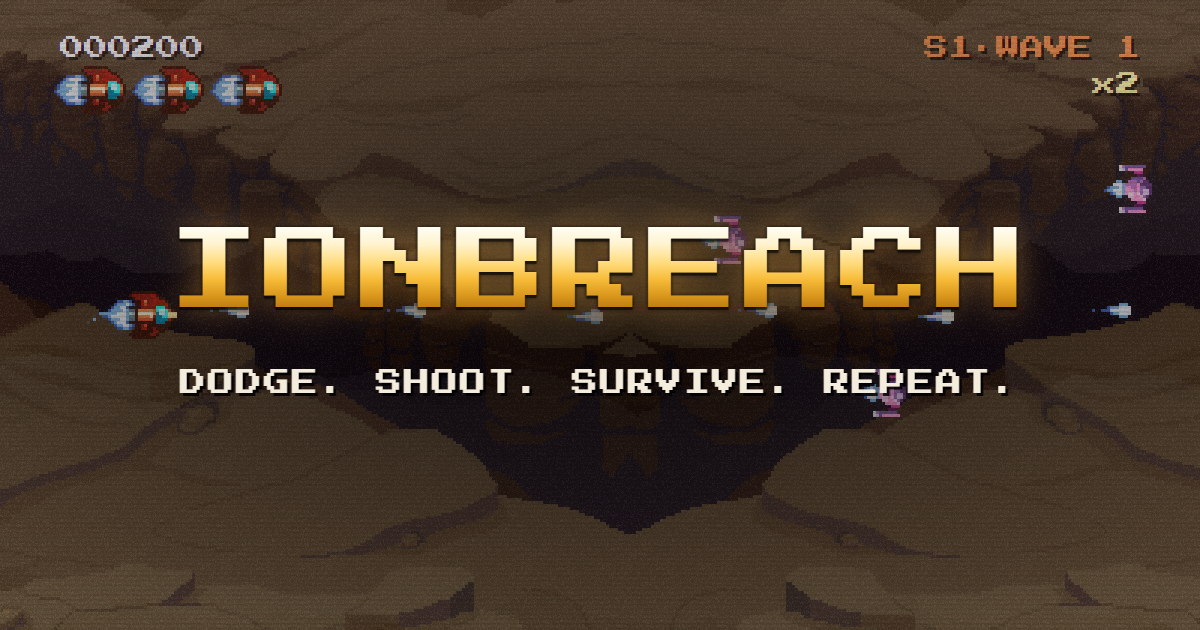
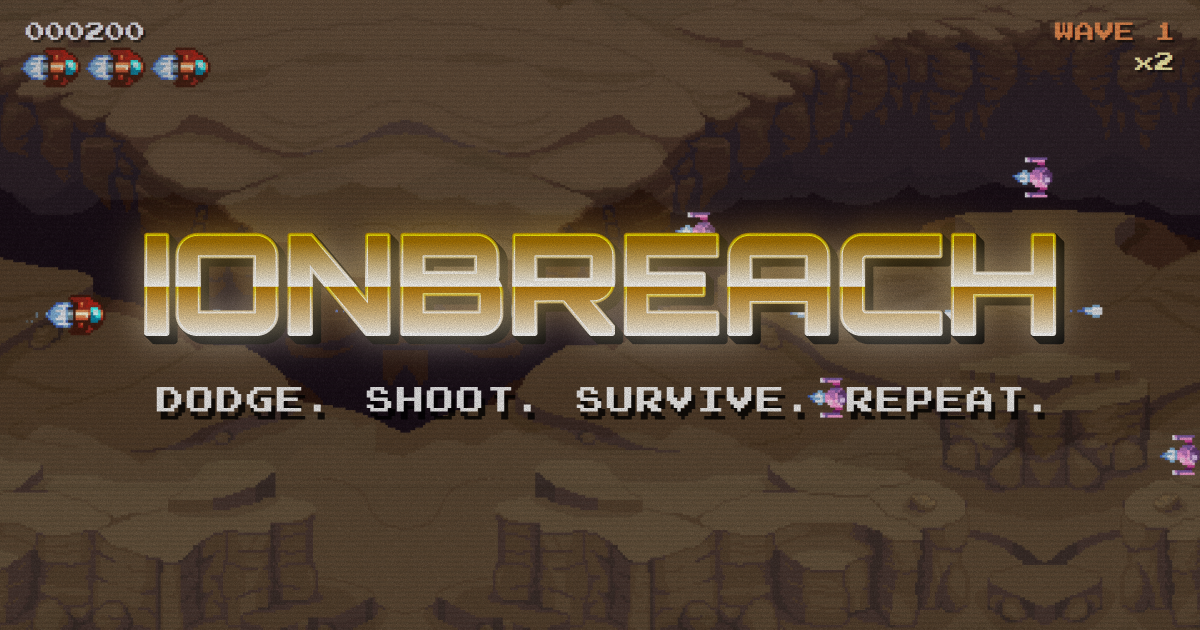
New homepage OG image, meta title and description
The OG image is now hand-made, so its generator is gone from the asset build.

diff --git a/index.html b/index.html
@@ -4,22 +4,22 @@
     <meta charset="utf-8" />
     <meta name="viewport" content="width=device-width, initial-scale=1, viewport-fit=cover, user-scalable=no" />
     <meta name="theme-color" content="#171310" />
-    <meta name="description" content="Ionbreach - a horizontal shoot 'em up across three sectors. Dodge, shoot, survive, in the browser." />
+    <meta name="description" content="A pixel-art shoot-em-up built for the browser. Dodge waves of enemies, take down the boss, and chase your best score. No download or account required." />
 
     <meta property="og:type" content="website" />
     <meta property="og:url" content="%SITE_URL%/" />
-    <meta property="og:title" content="Ionbreach" />
-    <meta property="og:description" content="Three sectors. Three bosses. No continues." />
-    <meta property="og:image" content="%SITE_URL%/og.png?v=2" />
+    <meta property="og:title" content="Ionbreach | Retro Pixel Space Shooter" />
+    <meta property="og:description" content="A pixel-art shoot-em-up built for the browser. Dodge waves of enemies, take down the boss, and chase your best score. No download or account required." />
+    <meta property="og:image" content="%SITE_URL%/og.png?v=3" />
     <meta property="og:image:width" content="1200" />
     <meta property="og:image:height" content="630" />
     <meta name="twitter:card" content="summary_large_image" />
-    <meta name="twitter:title" content="Ionbreach" />
-    <meta name="twitter:description" content="Three sectors. Three bosses. No continues." />
-    <meta name="twitter:image" content="%SITE_URL%/og.png?v=2" />
+    <meta name="twitter:title" content="Ionbreach | Retro Pixel Space Shooter" />
+    <meta name="twitter:description" content="A pixel-art shoot-em-up built for the browser. Dodge waves of enemies, take down the boss, and chase your best score. No download or account required." />
+    <meta name="twitter:image" content="%SITE_URL%/og.png?v=3" />
     <meta name="twitter:creator" content="@pixelyokai" />
     <meta name="referrer" content="no-referrer" />
-    <title>Ionbreach</title>
+    <title>Ionbreach | Retro Pixel Space Shooter</title>
     <link rel="icon" type="image/png" sizes="32x32" href="./favicon-32.png" />
     <link rel="apple-touch-icon" sizes="180x180" href="./apple-touch-icon.png" />
   </head>

diff --git a/README.md b/README.md
@@ -115,14 +115,13 @@ game.
 ```bash
 npm run assets:ionbreach     # sprites, terrain, bosses, audio
 npm run assets:shell         # the CRT corner frame
-npm run assets:brand         # favicons, the default OG image, inlined card assets
+npm run assets:brand         # favicons and inlined card assets
 node tools/preview-card.mjs  # renders both share cards into shots/
 ```
 
-The default OG image is a real frame of the first sector with the title on top, so
-`assets:brand` needs the dev server running. If you change the image, bump the `?v=` on
-its URL in `index.html`. X caches images by URL and will keep showing the old one
-otherwise.
+The homepage OG image, `public/og.png`, is made by hand and nothing generates it. If you
+replace it, bump the `?v=` on its URL in `index.html`. X caches images by URL and will
+keep showing the old one otherwise.
 
 The favicon is the ship's 16x16 hull, not the whole 24x16 sprite. The sprite includes a
 thruster flame that turns into a smudge at 32px. Everything is built at a 16px base and
